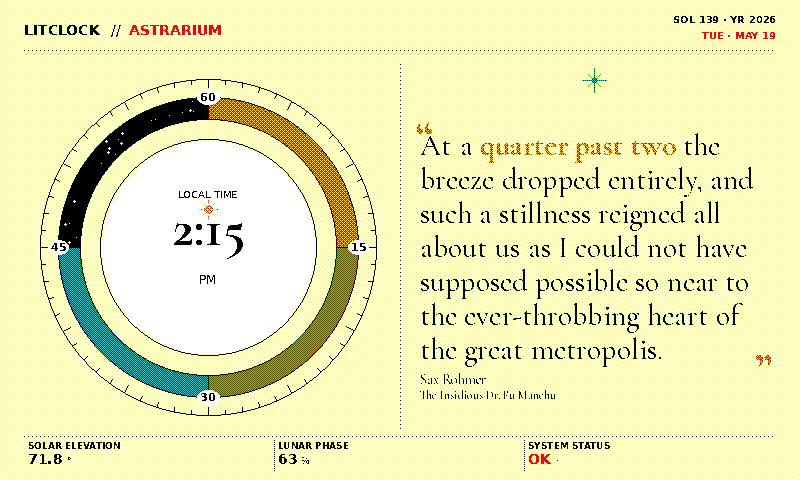
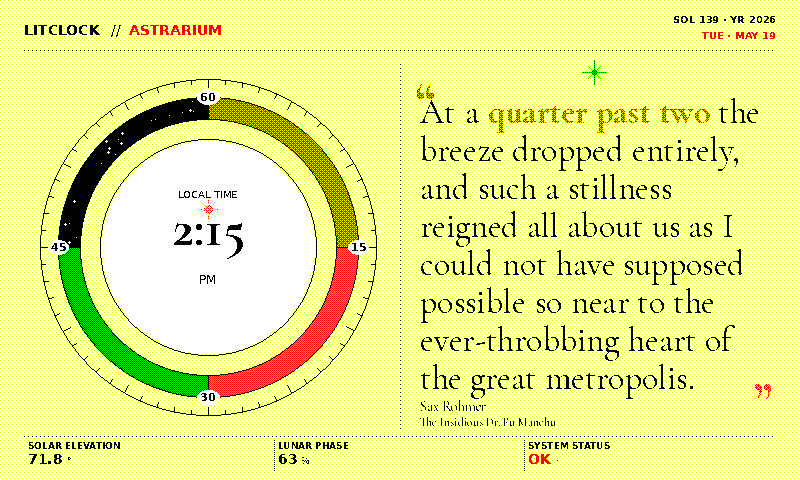
Give astrarium's quote panel more vertical room
Three small bumps that combine to give the body block ~22 extra px:

* panel_top 62 → 54 (sit 4 px below the header rule at y=50 instead
  of 12 px below)
* panel_bottom height-52 → height-46 (sit 2 px above the datum strip
  at y=height-44 instead of 8 px above)
* internal body_top offset panel_top+44 → panel_top+36 and
  body_bottom panel_bottom-42 → panel_bottom-38 (tighter padding
  around the star ornament and attribution)

fit_quote now picks a larger font for typical-length quotes — the
14:15 preview shifts from 7 lines at ~26 pt to 8 lines at ~30 pt,
fully using the height between the two horizontal rules.

diff --git a/render_quote.py b/render_quote.py
@@ -8945,9 +8945,11 @@ def _astrarium_paint_quote_panel(
 
     # Body block: fit the quote into the panel's interior. The panel
     # interior is narrower than the standard 660px layout so use a
-    # smaller font range.
-    body_top = panel_top + 44
-    body_bottom = panel_bottom - 42
+    # smaller font range. The +36 / −38 padding reserves room for the
+    # star ornament (24 px tall at panel_top+18) plus a small breathing
+    # gap, and for the closing quote mark + attribution beneath.
+    body_top = panel_top + 36
+    body_bottom = panel_bottom - 38
     body_height = body_bottom - body_top
     quote_font, quote_font_bold, wrapped_quote, line_height, chosen_size = fit_quote(
         draw,
@@ -9185,10 +9187,13 @@ def render_astrarium_frame(time_str: str, quote_row: dict, width: int, height: i
     # centre divider — the panel's own internal padding then adds
     # another 4–8 px before the opening quote mark / body text begin,
     # so the body has ~16–20 px of breathing room against the divider.
+    # Top sits 4 px below the header rule (y=50), bottom sits 2 px above
+    # the datum strip (y=height−44) — maximises body height between the
+    # two horizontal rules without crowding either of them.
     panel_left = int(width * 0.5) + 12
     panel_right = width - 24
-    panel_top = 62
-    panel_bottom = height - 52
+    panel_top = 54
+    panel_bottom = height - 46
     _astrarium_paint_quote_panel(image, draw, quote_row, panel_left, panel_right, panel_top, panel_bottom)
 
     # Vertical hairline divider between the dial and the quote panel
